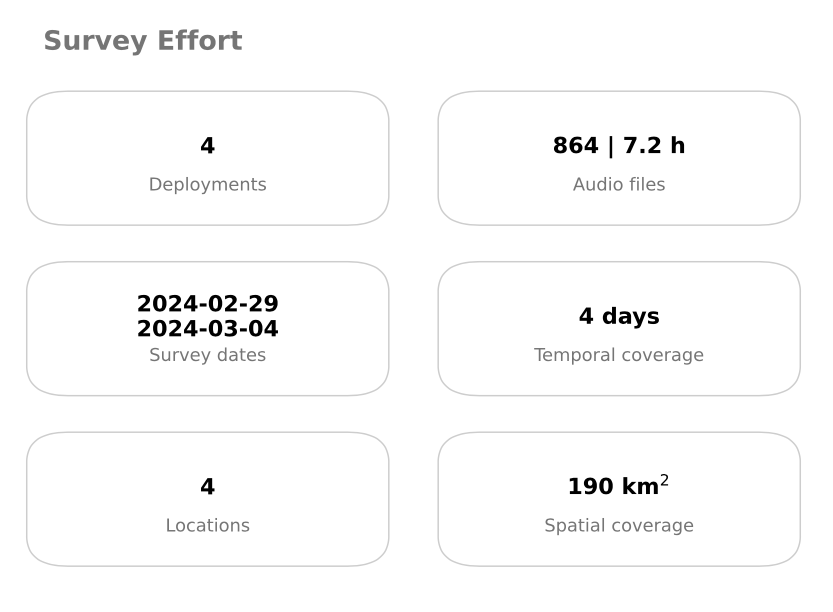
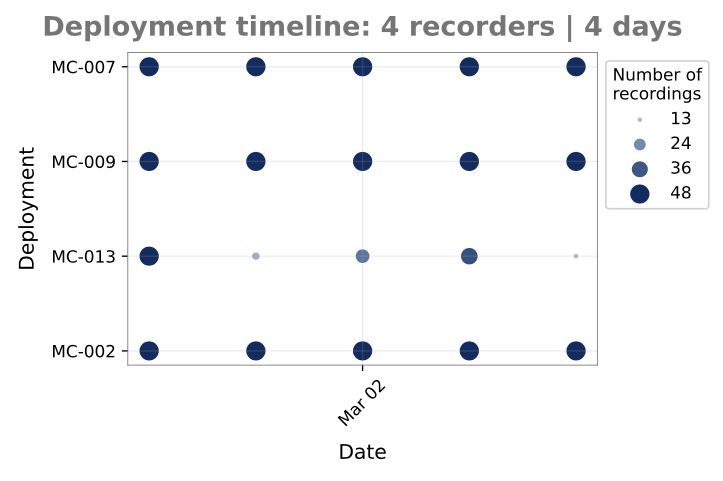
DOC: improved documentation

diff --git a/docs/source/beginner_tutorial/quality_control.md b/docs/source/beginner_tutorial/quality_control.md
@@ -10,9 +10,9 @@ This pipeline generates a set of visual outputs to help you explore the data and
 kedro run --pipeline quality_control
 ```
 
-### Check recorder performance
+### Check deployment timeline
 
-Recall that the {{number_of_sensors}} recorders were programmed to record one minute every 30 minutes for {{number_of_days}} days, so each recorder was expected to collect 48 files per day. You can visually check this in `data/output/quality_control/sensor_performance.png`:
+Recall that the {{number_of_sensors}} recorders were programmed to record one minute every 30 minutes for {{number_of_days}} days, so each recorder was expected to collect 48 files per day. You can visually check this in `data/output/quality_control/deployment_timeline.pdf`:
 
 ![](../../meta/images/sensor_performance.png)
 
@@ -22,7 +22,7 @@ In this case, **pamflow** identified that recorder on deployment {{broken_sensor
 
 ### Check deployment locations
 
-A map of all deployment locations is generated to help verify that coordinates are correct. Check the output at `data/output/quality_control/sensor_location.png`:
+A map of all deployment locations is generated to help verify that coordinates are correct. Check the output at `data/output/quality_control/deployment_location.png`:
 
 ![](../../meta/images/sensor_location.png)
 
@@ -43,6 +43,6 @@ Below are two example timelapse spectrogram outputs:
 ![](../../meta/images/healthy_timelapse.png)
 ![](../../meta/images/broken_timelapse.png)
 
-The first spectrogram shows acoustic activity across different frequencies and times, as expected. The second shows no activity, indicating that recorder was not functioning correctly. You may want to discard these recordings in further steps to save computational resources and maintain data quality.
+The first spectrogram shows acoustic activity across different frequencies and times, as expected, with wind affecting lower frequency bands during the day. The second shows no activity, indicating that recorder was not functioning correctly. You may want to discard these recordings in further steps to save computational resources and maintain data quality.
 
 In the [next](./species_detection.md) section you will learn how to detect target species in your recordings.

diff --git a/docs/source/beginner_tutorial/species_detection.md b/docs/source/beginner_tutorial/species_detection.md
@@ -10,7 +10,17 @@ kedro run --pipeline species_detection
 
 ### Detection outputs
 
-Two output files are stored in `data/output/species_detection/`:
+The pipeline produces two summary figures and two output files.
+
+The figures are stored in `data/output/species_detection/`:
+
+- `observations_summary.pdf` — a high-level summary showing total observations, number of species detected, and the proportion of recordings with detections
+- `observations_per_species.pdf` — a bar chart showing the number of detections per species
+
+![](../../meta/images/observations_summary.png) ![](../../meta/images/observations_per_species.png)
+
+The output files are also stored in `data/output/species_detection/`:
+
 
 - `unfiltered_observations.csv` — all detections regardless of species
 - `observations.csv` — detections filtered to your `target_species` list only (see [Input data](./input_data.md#target-species))

diff --git a/docs/source/beginner_tutorial/input_data.md b/docs/source/beginner_tutorial/input_data.md
@@ -53,6 +53,10 @@ Even though the monitoring site hosts many bird species, the community is only i
 | Cyanocorax violaceus     |
 | Pitangus sulphuratus     |
 | Ramphastos tucanus       |
+| Trogon viridis           |
+| Ara severus              |
+| Nyctidromus albicollis   |
+| Lophostrix cristata      |
 
 </div>
 
